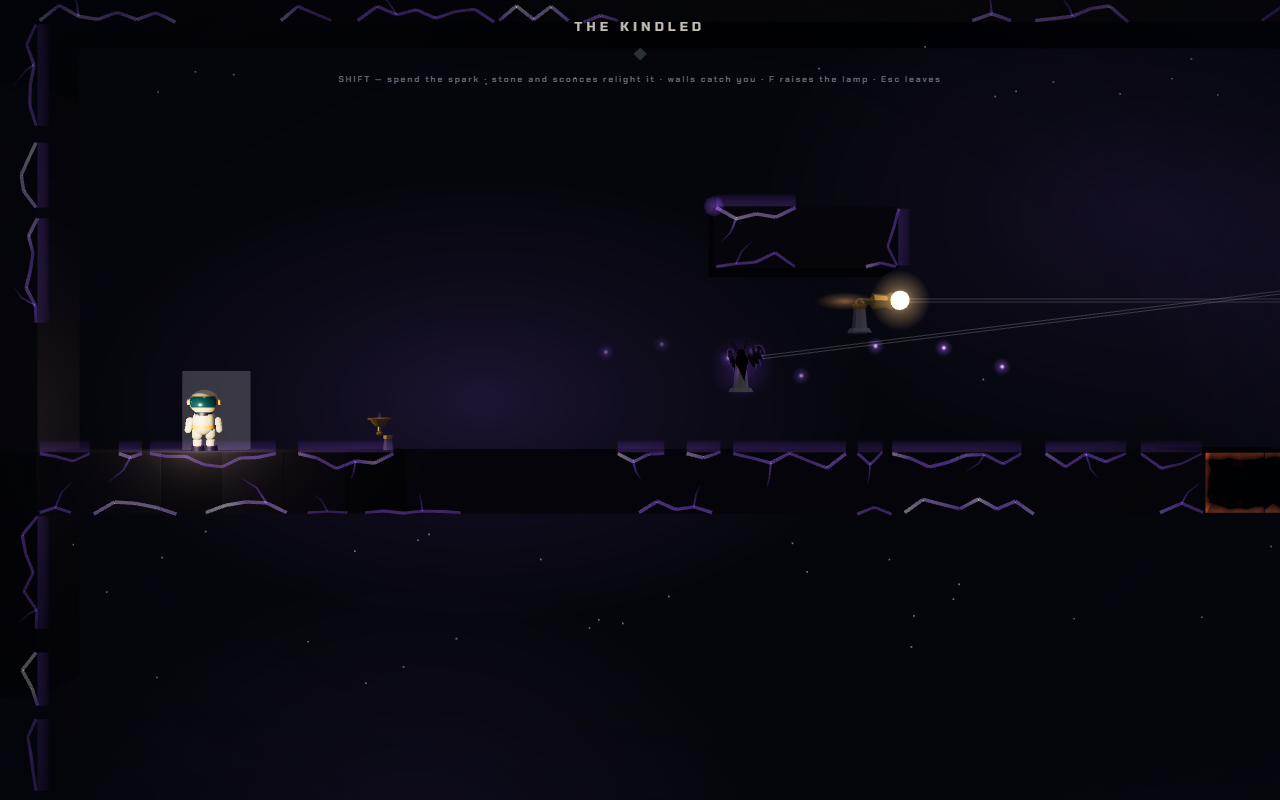
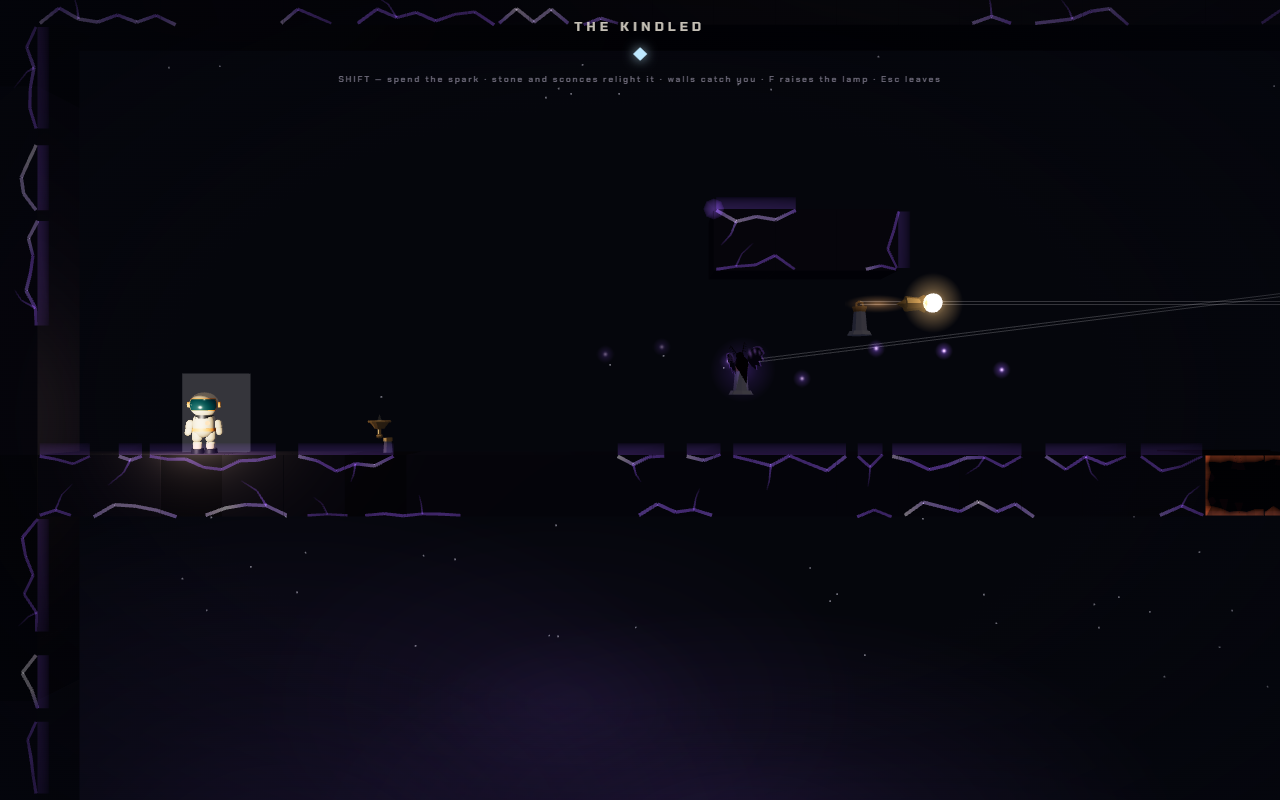
Price a room in seconds, and find out why WICK is ten of them
Adds a clear-time estimate to the harness: it sums the frames of each beat's
solving tape plus the walk between landings, over the expert line. It put the
first cut at 13s against a report of "under ten", which is close enough to
trust the model.

That number then explains itself. One jump beat is 1.08s of air time, and the
harness's route is the fewest platform hops, so clear time is essentially
1.08 x hops-on-the-critical-path. Nine hops is ten seconds. Forty seconds
needs forty hops that cannot be skipped — and in a single open cavern they
always can be. A serpentine of thirty-seven shelves was tried and the expert
line still took ten of them and finished in twelve seconds. Adding shelves to
an open room does not add time; it adds alternatives.

So this commit does the half that is a tuning problem and leaves the half
that is a structural one.

Tightened: the first two gaps go from 0.55x and 0.62x to 0.73x and 0.85x, and
the landings narrow to two and three tiles, so every jump in chamber A is now
held rather than strolled.

Added consequence: unlight in chamber D and nowhere else. A, B and C keep the
promise that nothing there can hurt you — a tutorial should not open with
stakes, but it should not end without them either.

Kept: spark FORCED, no traversal under the six-frame threshold, no corridor
over ten tiles, 43/43 on the suite.

diff --git a/src/world/vaults.ts b/src/world/vaults.ts
@@ -263,8 +263,8 @@ export const VAULTS: VaultDef[] = [
       '#########################################.........ooo..#',
       '#########################################..........K.M.#',
       '#########################################..........#####',
-      '#########################################.......ooo....#',
-      '#########################################....S.........#',
+      '#########################################.......ooo.XX.#',
+      '#########################################....S..XX.....#',
       '###########################################..###########',
       '#########################################......#########',
       '#########################################......#########',
@@ -280,9 +280,9 @@ export const VAULTS: VaultDef[] = [
       '#................................o.............#########',
       '#.............................ooo...===.ooo....#########',
       '#..................oooo....ooo..S#######...ooo.#########',
-      '#............ooo.......####..........######....#########',
-      '#......ooo..S...###..................####......#########',
-      '#.@.S....####..#.....#.....#.........####......#########',
+      '#............ooo........###..........######....#########',
+      '#......ooo..S.....##.................####......#########',
+      '#.@.S....#.###.#.....#.....#.........####......#########',
       '#######.#.....#.....#.....#..........####......#########',
       '########################################################',
       '########################################################',

diff --git a/scripts/author-wick.py b/scripts/author-wick.py
@@ -92,16 +92,16 @@ floor(29, 1, 6)                     # the threshold — wide, a breath
 put(2, 28, '@')
 put(4, 28, 'S')                     # the free light, at your feet
 arc(27, 7, 9)                       # 3 empty = 0.55x
-floor(28, 10, 12)                   # short: you land near its lip
+floor(28, 11, 13)                   # 0.73x, and two tiles of landing
 arc(26, 13, 15)                     # 3 empty, +1 rise = 0.62x
-floor(27, 16, 18)
+floor(27, 18, 19)                   # 0.85x — the hardest the legs are asked
 put(12, 27, 'S')                    # the cut-13 light, standing on the shelf
 
 # ===========================================================================
 # CHAMBER B · cols 14-33 · DEVELOP → the spark, discovered by elimination
 # ===========================================================================
 arc(25, 19, 22)                     # 4 empty = 0.73x — the first HELD jump
-floor(26, 23, 26)
+floor(26, 24, 26)                   # 0.85x again, on a three-tile shelf
 
 # THE TEACHING GAP · 7 empty columns = 1.28x. It cannot be jumped, and that is
 # the point. It is fully visible from the shelf you stand on, its far lip is in
@@ -154,6 +154,13 @@ floor(11, 45, 54)                   # the reveal's floor — cols 43-44 stay ope
 arc(9, 48, 50)                      # 3 empty, +2 rise: the last held jump
 floor(8, 51, 54)
 arc(6, 50, 52)
+# THE UNLIGHT, chamber D only. Chambers A, B and C keep their promise that
+# nothing there can hurt you; the room's last two jumps are the only ones in
+# the tutorial that cost more than four seconds, which is how a tutorial ends
+# with stakes without opening with them.
+floor(10, 48, 49, 'X')
+floor(9, 52, 53, 'X')
+
 put(53, 7, 'M')
 put(51, 7, 'K')                     # one still reaching, at the top
 
